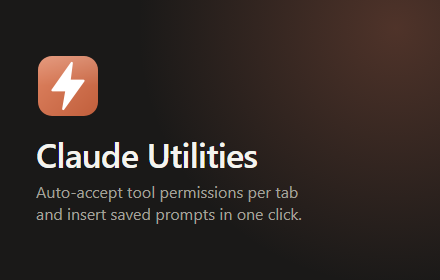
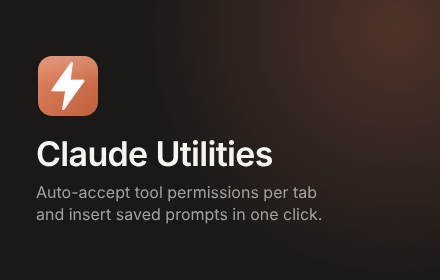
Re-render store images for 1.1.0
Show the new Input and Away options, and make the popup frame in the
permissions screenshot and the marquee promo tall enough for them.

Changed region(s): [[0.0591, 0.4857, 0.6205, 0.6], [0.0886, 0.7429, 0.7386, 0.8], [0.0886, 0.6571, 0.7386, 0.7143]]

diff --git a/store/src/promo-marquee.html b/store/src/promo-marquee.html
@@ -20,7 +20,7 @@
       <h1>Claude Utilities</h1>
       <p>Small tools for claude.ai: auto-accept tool permissions in the tabs you choose, and insert saved prompts in one click.</p>
     </div>
-    <div class="popup"><iframe src="popup-frame.html?tab=auto-accept-permissions&theme=dark" height="430"></iframe></div>
+    <div class="popup"><iframe src="popup-frame.html?tab=auto-accept-permissions&theme=dark" height="482"></iframe></div>
   </div>
 </body>
 </html>

diff --git a/store/src/screenshot-permissions.html b/store/src/screenshot-permissions.html
@@ -13,7 +13,7 @@
         <li>Only ever clicks “Allow once”</li>
       </ul>
     </div>
-    <div class="popup"><iframe src="popup-frame.html?tab=auto-accept-permissions&theme=dark" height="430"></iframe></div>
+    <div class="popup"><iframe src="popup-frame.html?tab=auto-accept-permissions&theme=dark" height="482"></iframe></div>
   </div>
   <div class="disclaimer">Unofficial extension. Not affiliated with the makers of Claude.</div>
 </body>
